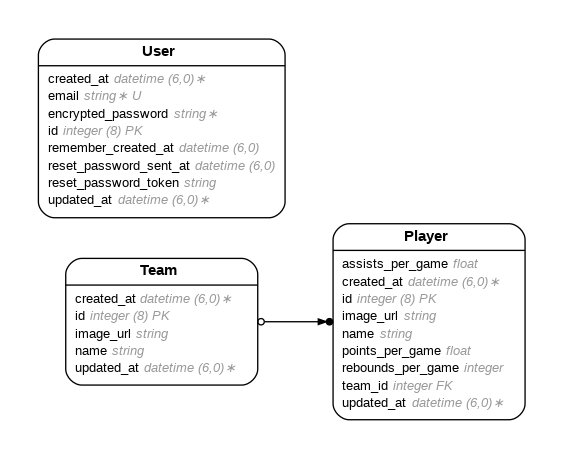
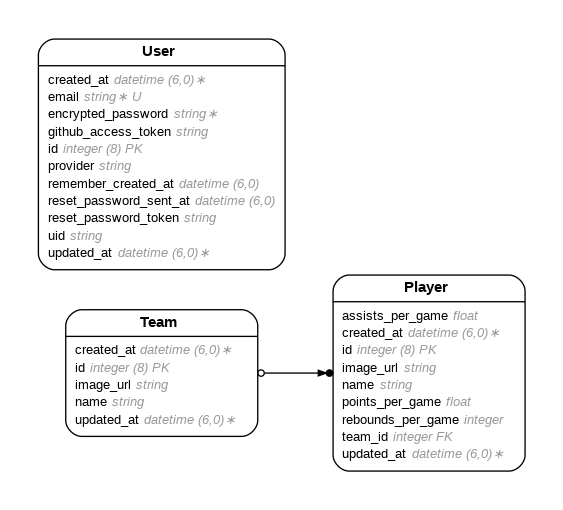
added auth with github

Changed region(s): [[0.0604, 0.061, 0.5133, 0.8845], [0.4529, 0.488, 0.9361, 0.9455]]

diff --git a/app/models/user.rb b/app/models/user.rb
@@ -5,9 +5,12 @@
 #  id                     :bigint           not null, primary key
 #  email                  :string           default(""), not null
 #  encrypted_password     :string           default(""), not null
+#  github_access_token    :string
+#  provider               :string
 #  remember_created_at    :datetime
 #  reset_password_sent_at :datetime
 #  reset_password_token   :string
+#  uid                    :string
 #  created_at             :datetime         not null
 #  updated_at             :datetime         not null
 #
@@ -20,5 +23,14 @@ class User < ApplicationRecord
   # Include default devise modules. Others available are:
   # :confirmable, :lockable, :timeoutable, :trackable and :omniauthable
   devise :database_authenticatable, :registerable,
-         :recoverable, :rememberable, :validatable
+         :recoverable, :rememberable, :validatable,
+         :omniauthable, omniauth_providers: %i[github]
+
+  def self.from_omniauth(auth)
+    find_or_create_by(provider: auth.provider, uid: auth.uid) do |user|
+      user.email = auth.info.email
+      user.password = Devise.friendly_token[0, 20]
+      user.github_access_token = auth.credentials.token
+    end
+  end
 end

diff --git a/db/schema.rb b/db/schema.rb
@@ -10,7 +10,7 @@
 #
 # It's strongly recommended that you check this file into your version control system.
 
-ActiveRecord::Schema[7.1].define(version: 2025_08_05_034341) do
+ActiveRecord::Schema[7.1].define(version: 2025_08_05_041015) do
   # These are extensions that must be enabled in order to support this database
   enable_extension "plpgsql"
 
@@ -40,6 +40,9 @@ ActiveRecord::Schema[7.1].define(version: 2025_08_05_034341) do
     t.datetime "remember_created_at"
     t.datetime "created_at", null: false
     t.datetime "updated_at", null: false
+    t.string "github_access_token"
+    t.string "provider"
+    t.string "uid"
     t.index ["email"], name: "index_users_on_email", unique: true
     t.index ["reset_password_token"], name: "index_users_on_reset_password_token", unique: true
   end

diff --git a/app/controllers/omniauth_callbacks_controller.rb b/app/controllers/omniauth_callbacks_controller.rb
@@ -1,0 +1,13 @@
+class OmniauthCallbacksController < Devise::OmniauthCallbacksController
+  def github
+    @user = User.from_omniauth(request.env["omniauth.auth"].except!(:extra))
+
+    if @user.persisted?
+      sign_in_and_redirect @user
+      set_flash_message(:notice, :success, kind: "GitHub") if is_navigational_format?
+    else
+      session["devise.github_data"] = request.env["omniauth.auth"].except!(:extra)
+      redirect_to root_url, alert: "Something went wrong."
+    end
+  end
+end

diff --git a/config/initializers/devise.rb b/config/initializers/devise.rb
@@ -271,7 +271,7 @@ Devise.setup do |config|
   # ==> OmniAuth
   # Add a new OmniAuth provider. Check the wiki for more information on setting
   # up on your models and hooks.
-  # config.omniauth :github, 'APP_ID', 'APP_SECRET', scope: 'user,public_repo'
+  config.omniauth :github, ENV.fetch("MY_GITHUB_ID"), ENV.fetch("MY_GITHUB_SECRET"), scope: "user"
 
   # ==> Warden configuration
   # If you want to use other strategies, that are not supported by Devise, or

diff --git a/db/migrate/20250805041015_add_omniauth_and_github_access_token_to_users.rb b/db/migrate/20250805041015_add_omniauth_and_github_access_token_to_users.rb
@@ -1,0 +1,7 @@
+class AddOmniauthAndGithubAccessTokenToUsers < ActiveRecord::Migration[7.1]
+  def change
+    add_column :users, :github_access_token, :string
+    add_column :users, :provider, :string
+    add_column :users, :uid, :string
+  end
+end

diff --git a/config/routes.rb b/config/routes.rb
@@ -1,7 +1,10 @@
 Rails.application.routes.draw do
-  devise_for :users
   resources :players
   resources :teams
+
+  devise_for :users, controllers: {
+    omniauth_callbacks: "omniauth_callbacks",
+  }
 
   root "players#index"
 

diff --git a/env_test.rb b/env_test.rb
@@ -1,0 +1,4 @@
+require "dotenv/load"
+
+pp ENV.fetch("MY_GITHUB_ID")
+pp ENV.fetch("MY_GITHUB_SECRET")
